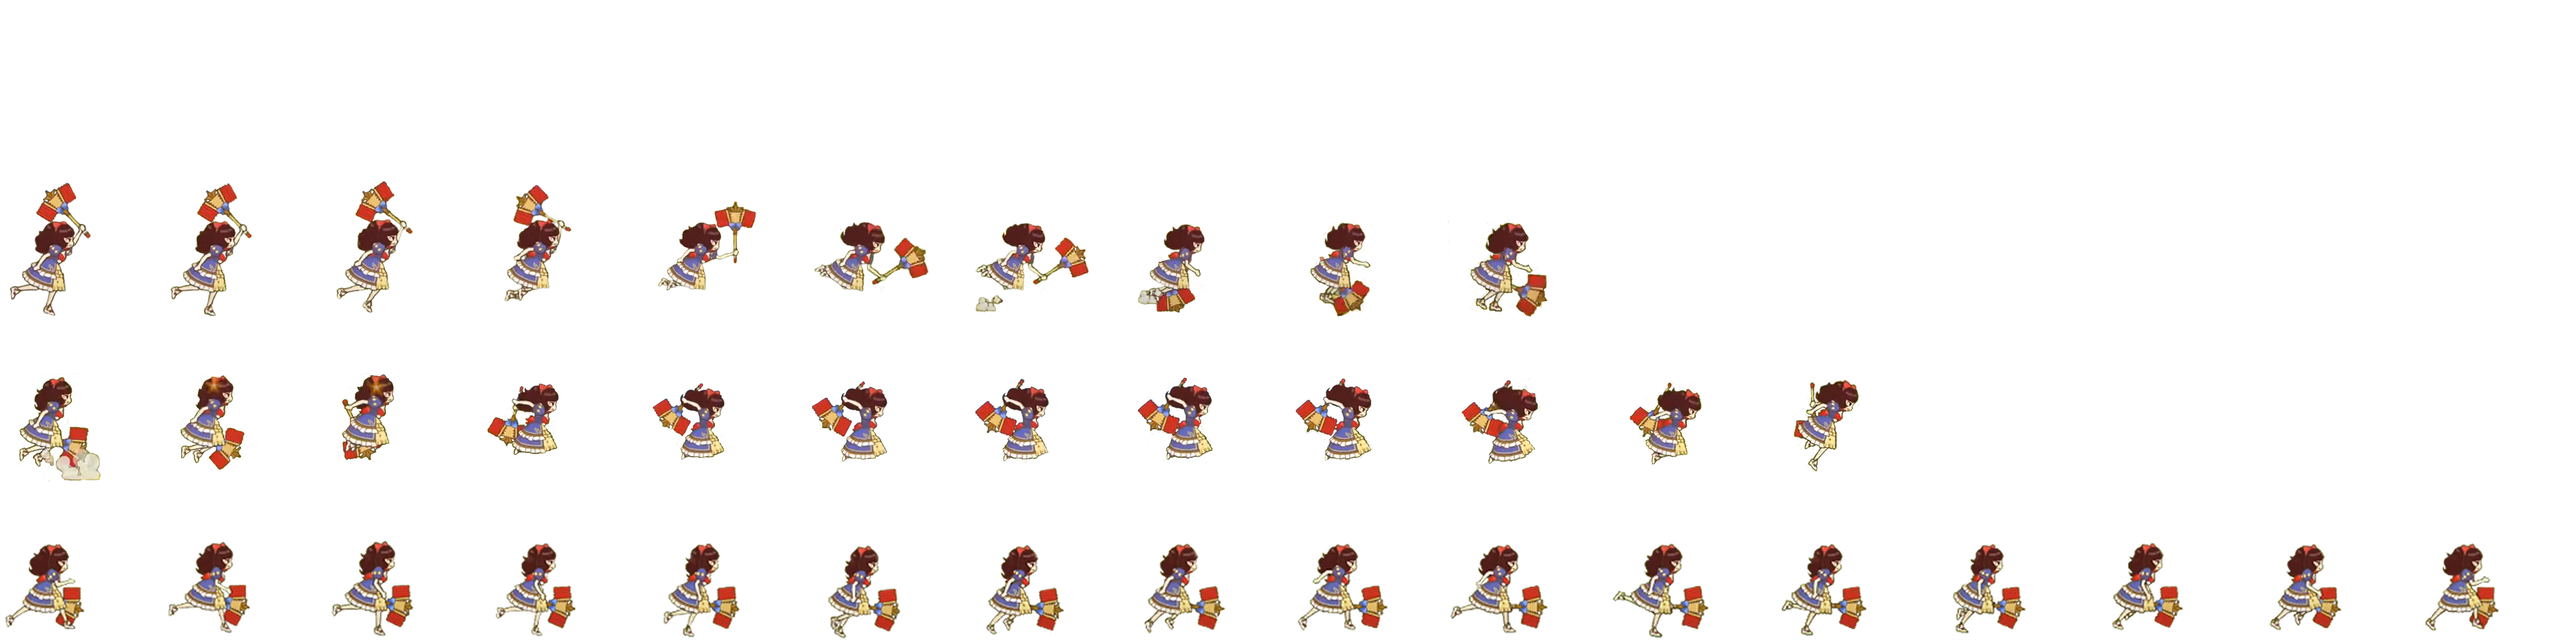
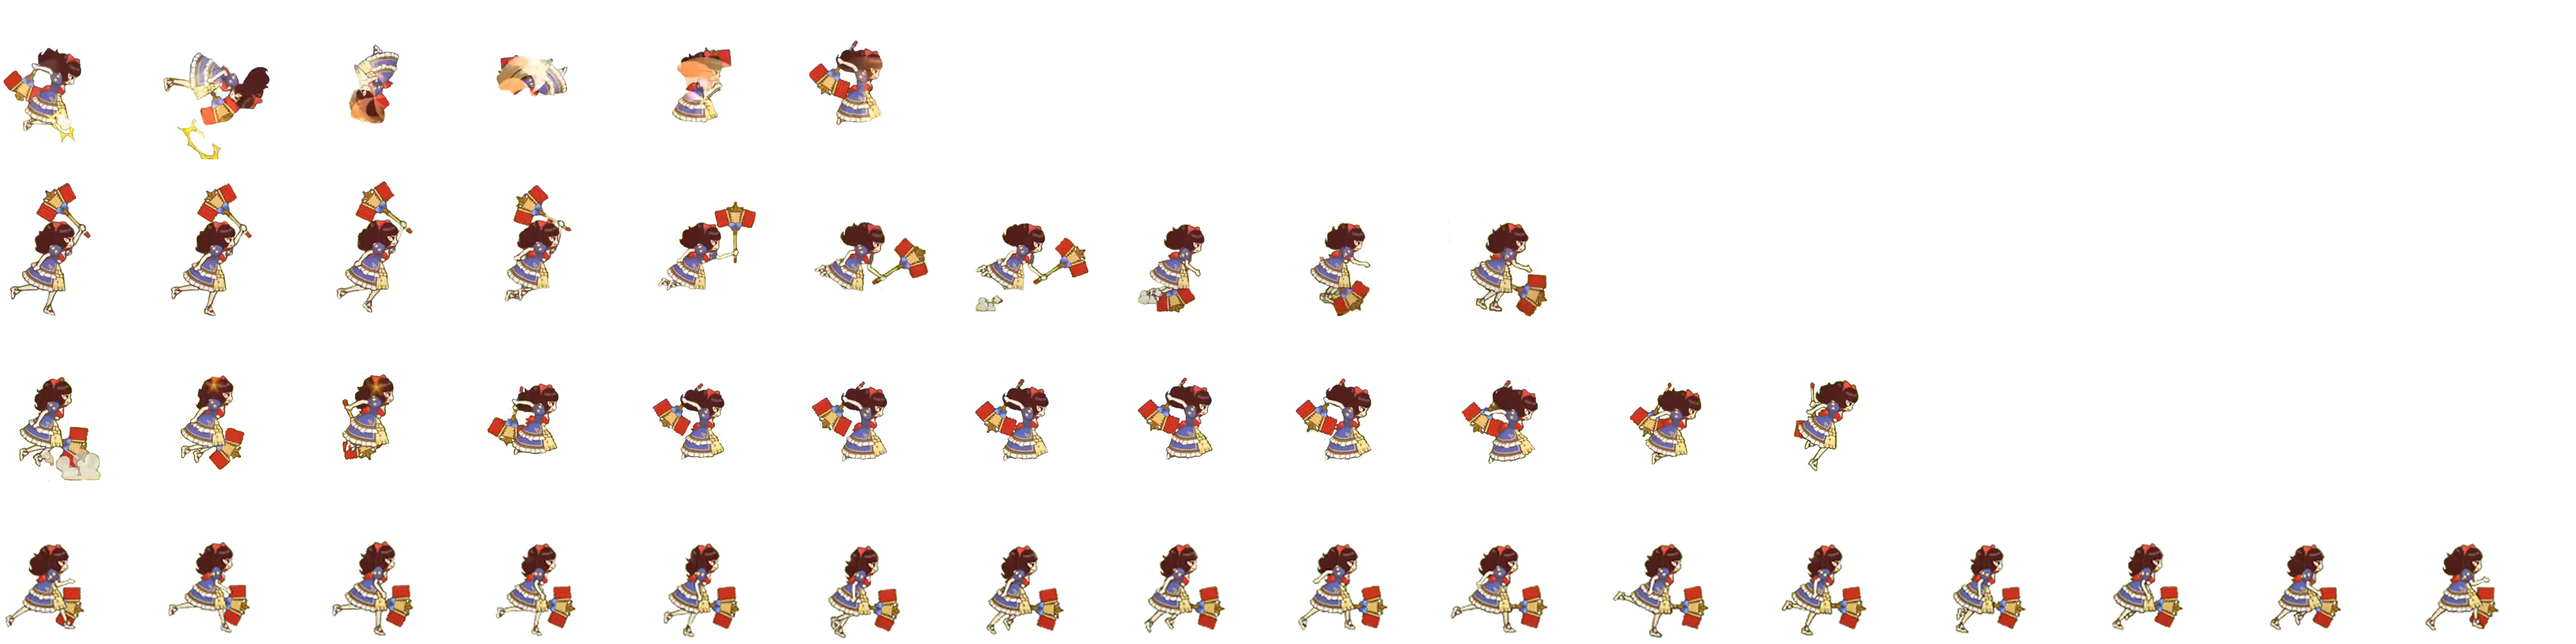
더블 점프

diff --git a/princess.py b/princess.py
@@ -4,9 +4,11 @@ from state_machine import*
 class Run:
     @staticmethod
     def enter(princess, e):
-        princess.frame, princess.action = 0, 0
+        princess.action = 0
         if time_out(e):
-            princess.frame = 10
+            pass
+        else:
+            princess.frame = 0
 
     @staticmethod
     def exit(princess, e):
@@ -46,7 +48,11 @@ class Hit:
 class Jump:
     @staticmethod
     def enter(princess, e):
-        princess.frame, princess.action = 0, 1
+        princess.action = 1
+        if time_out(e):
+            princess.frame = 6
+        else:
+            princess.frame = 0
 
     @staticmethod
     def exit(princess, e):
@@ -54,12 +60,20 @@ class Jump:
 
     @staticmethod
     def do(princess):
-        princess.frame += 1
-        if princess.frame <= 6:
-            princess.y += 20
+        if princess.action == 1:
+            princess.frame += 1
+            if princess.frame <= 6:
+                princess.y += 20
+            else:
+                princess.y -= 20
+            if princess.frame >= 12:
+                princess.action = 0
         else:
-            princess.y -= 20
-        if princess.frame >= 12:
+            princess.frame = (princess.frame + 1) % 16
+            princess.y -= 10
+            if princess.y < 150:
+                princess.y = 150
+        if princess.y == 150:
             princess.state_machine.add_event(('TIME_OUT', 0))
 
     @staticmethod
@@ -69,7 +83,7 @@ class Jump:
 class DoubleJump:
     @staticmethod
     def enter(princess, e):
-        pass
+        princess.frame, princess.action = 0, 3
 
     @staticmethod
     def exit(princess, e):
@@ -77,7 +91,27 @@ class DoubleJump:
 
     @staticmethod
     def do(princess):
-        pass
+        if princess.action == 3:
+            if princess.frame < 6:
+                princess.frame += 1
+                if princess.frame <= 2:
+                    princess.y += 20
+                elif princess.frame == 6:
+                    princess.action = 1
+        elif princess.action == 1:
+            princess.frame += 1
+            princess.y -= 20
+            if princess.frame >= 12:
+                princess.action = 0
+            if princess.y < 150:
+                princess.y = 150
+        else:
+            princess.frame = (princess.frame + 1) % 16
+            princess.y -= 10
+            if princess.y < 150:
+                princess.y = 150
+        if princess.y == 150:
+            princess.state_machine.add_event(('TIME_OUT', 0))
 
     @staticmethod
     def draw(princess):
@@ -130,7 +164,7 @@ class Princess:
                 Run : {c_down : Hit, space_down : Jump, death : Die},
                 Hit : {time_out : Run, death : Die},
                 Jump : {c_down : Hit, space_down : DoubleJump, time_out : Run, fly_item : Fly, death : Die},
-                DoubleJump : {c_down : Hit, time_out : Run, fly_item : Fly, death : Die},
+                DoubleJump : {time_out : Run, fly_item : Fly, death : Die},
                 Fly : {time_out : Run}
             }
         )
